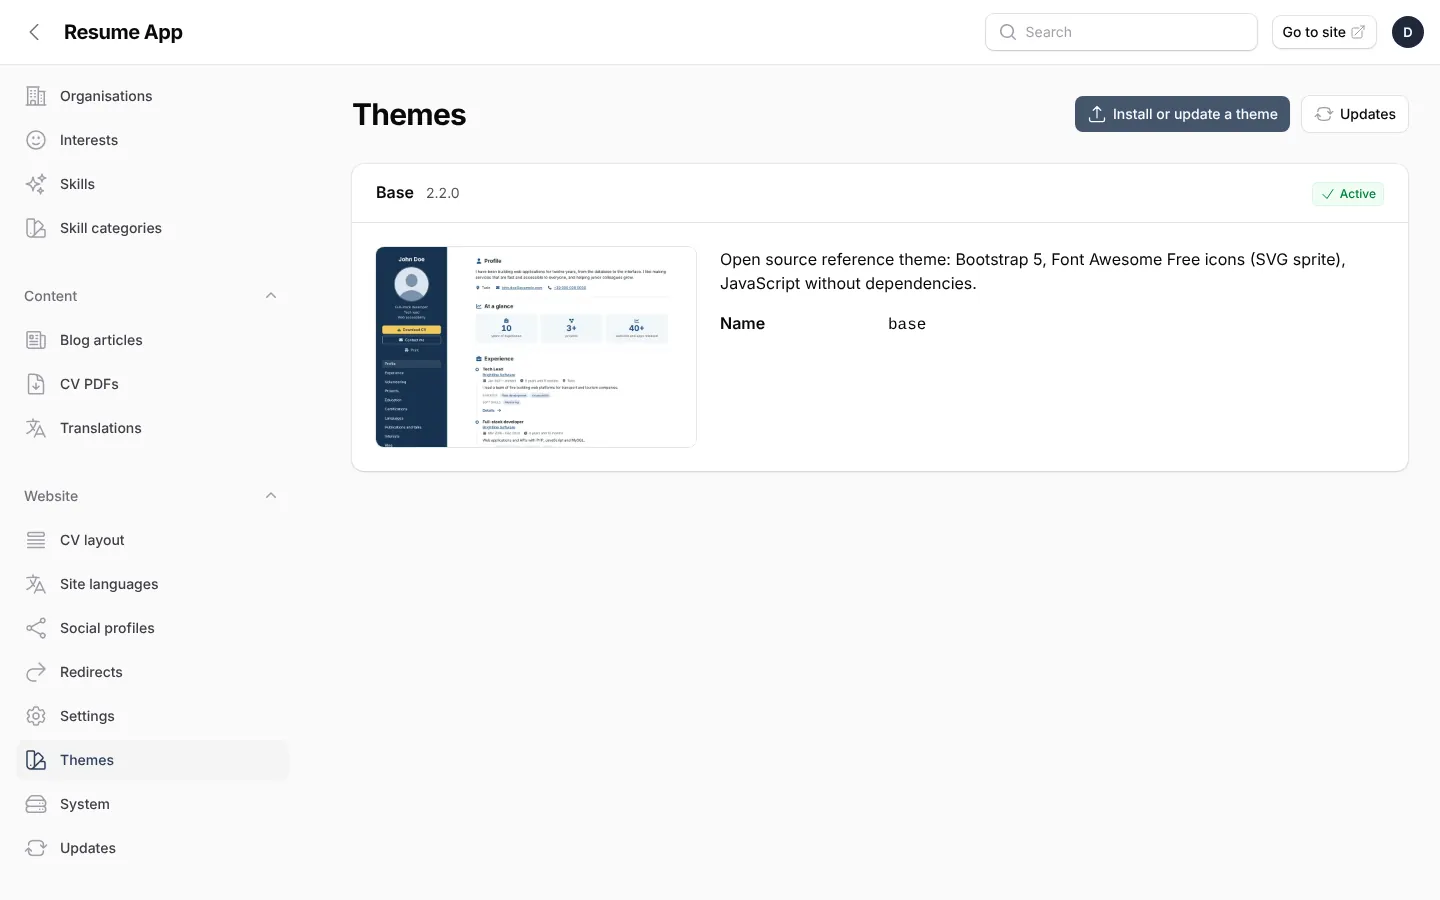
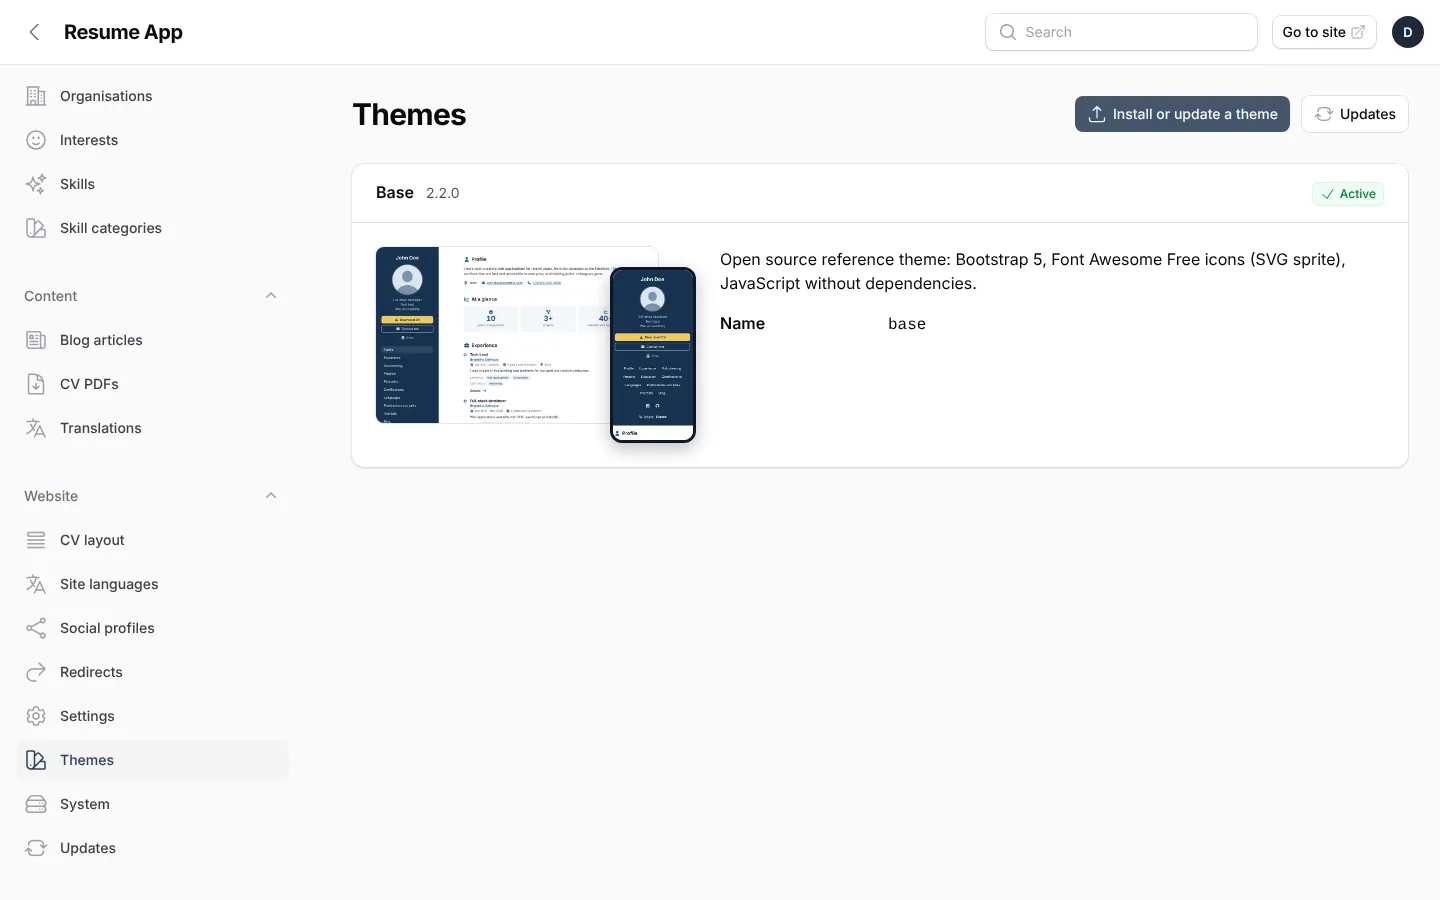
2.4.0: phone preview of the themes, shown over the computer one and enlarged on click
- "preview_mobile" in theme.json (also per variant): preview-mobile.webp and previews/{name}-mobile.webp
  are allowed in the packages and copied by build-theme.sh; ?device=mobile in ThemePreviewController.
- A variant with its own computer image but no phone image shows no phone image (the theme's one would
  have another palette).
- Themes page: the phone over a corner of the computer image; a click opens both at full size in a
  dialog (closed with Esc, a click outside or the button). Phone preview of the base theme.

Claude-Session: https://claude.ai/code/session_01YRHZjULXZyU5fuabgV16pM

Changed region(s): [[0.25, 0.28, 0.5, 0.5289]]

diff --git a/resources/views/filament/pages/themes.blade.php b/resources/views/filament/pages/themes.blade.php
@@ -20,9 +20,32 @@
                     @endif
                 </x-slot>
 
-                <div @class(['resume-themes-body', 'has-preview' => $item['preview']])>
-                @if ($item['preview'])
-                    <img class="resume-themes-preview" src="{{ $item['preview'] }}" alt="{{ __('admin.themes.preview', ['theme' => $theme->title]) }}" loading="lazy" width="640" height="400">
+                <div @class(['resume-themes-body', 'has-preview' => $item['preview'] || $item['previewMobile']])>
+                @if ($item['preview'] || $item['previewMobile'])
+                    {{-- Computer and phone together (the phone over a corner); a click opens both at full size --}}
+                    <div class="resume-themes-shots" x-data>
+                        <button type="button" @class(['resume-themes-shots-button', 'has-mobile' => $item['preview'] && $item['previewMobile']])
+                            x-on:click="$refs.dialog.showModal()" aria-label="{{ __('admin.themes.preview_open', ['theme' => $theme->title]) }}">
+                            @if ($item['preview'])
+                                <img class="resume-themes-preview" src="{{ $item['preview'] }}" alt="{{ __('admin.themes.preview', ['theme' => $theme->title]) }}" loading="lazy" width="640" height="400">
+                            @endif
+                            @if ($item['previewMobile'])
+                                <img class="resume-themes-preview-mobile" src="{{ $item['previewMobile'] }}" alt="{{ __('admin.themes.preview_mobile', ['theme' => $theme->title]) }}" loading="lazy" width="300" height="610">
+                            @endif
+                            <span class="resume-themes-shots-zoom">{{ __('admin.themes.preview_zoom') }}</span>
+                        </button>
+                        <dialog class="resume-themes-dialog" x-ref="dialog" x-on:click.self="$el.close()" aria-label="{{ __('admin.themes.preview', ['theme' => $theme->title]) }}">
+                            <div class="resume-themes-dialog-shots">
+                                @if ($item['preview'])
+                                    <img src="{{ $item['preview'] }}" alt="{{ __('admin.themes.preview', ['theme' => $theme->title]) }}" class="is-desktop" loading="lazy">
+                                @endif
+                                @if ($item['previewMobile'])
+                                    <img src="{{ $item['previewMobile'] }}" alt="{{ __('admin.themes.preview_mobile', ['theme' => $theme->title]) }}" class="is-mobile" loading="lazy">
+                                @endif
+                            </div>
+                            <button type="button" class="resume-themes-dialog-close" x-on:click="$refs.dialog.close()">{{ __('admin.themes.close') }}</button>
+                        </dialog>
+                    </div>
                 @endif
                 <div class="resume-themes-info">
                 @if ($theme->description)
@@ -103,8 +126,27 @@
         .resume-themes { display: grid; gap: 1.5rem; }
         .resume-themes-body.has-preview { display: grid; grid-template-columns: minmax(12rem, 20rem) 1fr; gap: 1.5rem; align-items: start; }
         @media (max-width: 48rem) { .resume-themes-body.has-preview { grid-template-columns: 1fr; } }
-        .resume-themes-preview { width: 100%; height: auto; aspect-ratio: 16 / 10; object-fit: cover; object-position: top; border-radius: .5rem; box-shadow: 0 0 0 1px rgb(3 7 18 / .1); }
+        .resume-themes-shots-button { position: relative; display: block; width: 100%; padding: 0; border: 0; background: none; cursor: zoom-in; text-align: left; }
+        .resume-themes-shots-button.has-mobile { padding: 0 0 1.25rem; }
+        .resume-themes-preview { display: block; width: 100%; height: auto; aspect-ratio: 16 / 10; object-fit: cover; object-position: top; border-radius: .5rem; box-shadow: 0 0 0 1px rgb(3 7 18 / .1); }
+        .resume-themes-preview-mobile { display: block; width: 7rem; height: auto; aspect-ratio: 300 / 610; object-fit: cover; object-position: top; border-radius: .75rem; border: 3px solid rgb(17 24 39); background: #fff; box-shadow: 0 6px 18px rgb(0 0 0 / .25); }
+        .has-mobile .resume-themes-preview { width: 88%; }
+        .has-mobile .resume-themes-preview-mobile { position: absolute; right: 0; bottom: 0; width: 27%; }
         .dark .resume-themes-preview { box-shadow: 0 0 0 1px rgb(255 255 255 / .15); }
+        .dark .resume-themes-preview-mobile { border-color: rgb(255 255 255 / .35); }
+        .resume-themes-shots-zoom { position: absolute; left: .5rem; top: .5rem; padding: .15rem .5rem; border-radius: .375rem; font-size: .75rem; color: #fff; background: rgb(17 24 39 / .75); opacity: 0; transition: opacity .15s; }
+        .resume-themes-shots-button:hover .resume-themes-shots-zoom, .resume-themes-shots-button:focus-visible .resume-themes-shots-zoom { opacity: 1; }
+        .resume-themes-shots-button:focus-visible { outline: 2px solid var(--primary-500, rgb(100 116 139)); outline-offset: 4px; border-radius: .5rem; }
+        .resume-themes-dialog { position: fixed; inset: 0; margin: auto; width: fit-content; height: fit-content; max-width: min(96vw, 84rem); max-height: 94vh; overflow: auto; padding: 1.25rem; border: 0; border-radius: .75rem; background: #fff; color: inherit; box-shadow: 0 20px 50px rgb(0 0 0 / .35); }
+        .dark .resume-themes-dialog { background: rgb(24 24 27); }
+        .resume-themes-dialog::backdrop { background: rgb(0 0 0 / .6); }
+        .resume-themes-dialog-shots { display: flex; gap: 1.25rem; align-items: flex-start; justify-content: center; }
+        .resume-themes-dialog-shots img { height: auto; max-height: calc(94vh - 6rem); border-radius: .5rem; box-shadow: 0 0 0 1px rgb(3 7 18 / .1); object-fit: contain; }
+        .resume-themes-dialog-shots .is-desktop { width: min(60rem, 70vw); }
+        .resume-themes-dialog-shots .is-mobile { width: min(20rem, 22vw); border-radius: 1rem; border: 4px solid rgb(17 24 39); }
+        @media (max-width: 48rem) { .resume-themes-dialog-shots { flex-direction: column; align-items: center; } .resume-themes-dialog-shots .is-desktop { width: 100%; } .resume-themes-dialog-shots .is-mobile { width: 60%; } }
+        .resume-themes-dialog-close { display: block; margin: 1rem auto 0; padding: .4rem 1rem; border-radius: .5rem; font-size: .875rem; font-weight: 600; box-shadow: 0 0 0 1px rgb(3 7 18 / .15); }
+        .dark .resume-themes-dialog-close { box-shadow: 0 0 0 1px rgb(255 255 255 / .2); }
         .resume-themes-info > :first-child { margin-top: 0; }
         .resume-themes-version { margin-left: .5rem; font-weight: 400; font-size: .875rem; opacity: .7; }
         .resume-system-list { display: grid; grid-template-columns: minmax(9rem, max-content) 1fr; gap: .5rem 1.5rem; margin: 1rem 0 0; }

diff --git a/app/Themes/Theme.php b/app/Themes/Theme.php
@@ -22,6 +22,7 @@ final readonly class Theme
      * @param  string|null  $updateRepository  GitHub repository of the releases ("owner/name"), for updates
      * @param  string  $updateTagPrefix  prefix of the release tags of this theme ("v", "folio-v")
      * @param  string|null  $preview  preview image for the Themes page, relative to the theme folder ("preview.webp")
+     * @param  string|null  $previewMobile  the same on a phone ("preview-mobile.webp")
      * @param  list<string>  $signingKeys  Ed25519 public keys of the theme's packages (updates are checked with them)
      */
     public function __construct(
@@ -43,10 +44,14 @@ final readonly class Theme
         public ?string $author = null,
         public ?string $preview = null,
         public array $signingKeys = [],
+        public ?string $previewMobile = null,
     ) {}
 
-    /** Preview images: preview.webp (or .png, .jpg) and previews/{name}.webp for the variants */
-    public const string PREVIEW_PATTERN = '#^(preview|previews/[a-z0-9_-]+)\.(webp|png|jpe?g)$#';
+    /**
+     * Preview images: preview.webp and preview-mobile.webp (or .png, .jpg), previews/{name}.webp and
+     * previews/{name}-mobile.webp for the variants
+     */
+    public const string PREVIEW_PATTERN = '#^(preview|preview-mobile|previews/[a-z0-9_-]+)\.(webp|png|jpe?g)$#';
 
     public static function previewPath(?string $value): ?string
     {
@@ -54,12 +59,20 @@ final readonly class Theme
     }
 
     /**
-     * Absolute path of the preview image of the theme or of one of its variants (the theme's one if the variant has
-     * none), only if the file is there.
+     * Absolute path of the preview image of the theme or of one of its variants, on a computer or on a phone, only if
+     * the file is there. A variant without its own images uses the theme's ones; a variant with its own computer image
+     * but no phone image has no phone image (the theme's one would show another palette).
      */
-    public function previewFile(?string $variant = null): ?string
+    public function previewFile(?string $variant = null, bool $mobile = false): ?string
     {
-        $relative = ($variant !== null ? ($this->variants[$variant]->preview ?? null) : null) ?? $this->preview;
+        $own = $variant !== null ? ($this->variants[$variant] ?? null) : null;
+
+        $relative = match (true) {
+            ! $mobile => $own->preview ?? $this->preview,
+            $own?->previewMobile !== null => $own->previewMobile,
+            $own?->preview !== null => null,
+            default => $this->previewMobile,
+        };
         $file = $relative !== null ? $this->path.DIRECTORY_SEPARATOR.$relative : null;
 
         return $file !== null && is_file($file) ? $file : null;
@@ -137,6 +150,7 @@ final readonly class Theme
             updateTagPrefix: $tagPrefix,
             author: $string('author'),
             preview: self::previewPath($string('preview')),
+            previewMobile: self::previewPath($string('preview_mobile')),
             signingKeys: Signature::keys($data['signing_keys'] ?? null),
         );
     }
@@ -172,6 +186,7 @@ final readonly class Theme
             author: $this->author,
             preview: $this->preview,
             signingKeys: $this->signingKeys,
+            previewMobile: $this->previewMobile,
         );
     }
 

diff --git a/tests/Feature/Admin/ThemesTest.php b/tests/Feature/Admin/ThemesTest.php
@@ -628,9 +628,13 @@ it('installs themes and recognises app packages uploaded on the Updates page', f
 it('shows the preview of a theme and of its variants only to administrators', function () {
     [$manifest, $files] = variantTheme();
     $manifest['preview'] = 'preview.webp';
+    $manifest['preview_mobile'] = 'preview-mobile.webp';
     $manifest['variants']['dark']['preview'] = 'previews/dark.webp';
+    $manifest['variants']['dark']['preview_mobile'] = 'previews/dark-mobile.webp';
     $manifest['variants']['light']['preview'] = '../../.env';
-    app(ThemeInstaller::class)->install(themeZip($manifest, [...$files, 'preview.webp' => 'RIFFmainWEBP', 'previews/dark.webp' => 'RIFFdarkWEBP']));
+    $manifest['variants']['sepia'] = ['title' => 'Sepia', 'entrypoints' => [], 'preview' => 'previews/sepia.webp'];
+    app(ThemeInstaller::class)->install(themeZip($manifest, [...$files, 'preview.webp' => 'RIFFmainWEBP', 'preview-mobile.webp' => 'RIFFmainMOBILE',
+        'previews/dark.webp' => 'RIFFdarkWEBP', 'previews/dark-mobile.webp' => 'RIFFdarkMOBILE', 'previews/sepia.webp' => 'RIFFsepiaWEBP']));
     Filament::setCurrentPanel('admin');
 
     $url = fn (?string $variant = null): string => route('filament.admin.theme-preview', array_filter(['theme' => 'demo-pro', 'variant' => $variant]));
@@ -643,13 +647,23 @@ it('shows the preview of a theme and of its variants only to administrators', fu
     expect(file_get_contents($main->baseResponse->getFile()->getPathname()))->toBe('RIFFmainWEBP');
     expect(file_get_contents($this->get($url('dark'))->assertOk()->baseResponse->getFile()->getPathname()))->toBe('RIFFdarkWEBP');
 
+    // Phone previews: the theme's one, the dark variant has its own, a variant with its own computer image but no
+    // phone image has none
+    $mobile = fn (?string $variant = null) => $this->get($url($variant).'?device=mobile');
+    expect(file_get_contents($mobile()->assertOk()->baseResponse->getFile()->getPathname()))->toBe('RIFFmainMOBILE')
+        ->and(file_get_contents($mobile('dark')->assertOk()->baseResponse->getFile()->getPathname()))->toBe('RIFFdarkMOBILE');
+
     // A variant with an invalid path uses the theme's preview; unknown themes and base without preview: 404
     expect(file_get_contents($this->get($url('light'))->assertOk()->baseResponse->getFile()->getPathname()))->toBe('RIFFmainWEBP');
     $this->get(route('filament.admin.theme-preview', ['theme' => 'missing']))->assertNotFound();
 
+    $mobile('sepia')->assertNotFound();
+
     $this->get('/admin/themes')->assertOk()
         ->assertSee('src="'.$url().'?v=1.0.0"', escape: false)
-        ->assertSee('Anteprima del tema Demo-pro');
+        ->assertSee('src="'.$url().'?device=mobile&amp;v=1.0.0"', escape: false)
+        ->assertSee('Anteprima del tema Demo-pro')
+        ->assertSee('Anteprima su telefono del tema Demo-pro');
 });
 
 it('refuses theme packages with other files next to the preview images', function () {

diff --git a/app/Filament/Pages/ManageThemes.php b/app/Filament/Pages/ManageThemes.php
@@ -72,6 +72,7 @@ class ManageThemes extends Page
                     'base' => $theme->name === $themes->base()->name,
                     'source' => $sources->get($theme->name),
                     'preview' => self::previewUrl($theme, $theme->name === $active ? $themes->active()->variant : $theme->defaultVariant),
+                    'previewMobile' => self::previewUrl($theme, $theme->name === $active ? $themes->active()->variant : $theme->defaultVariant, mobile: true),
                 ])
                 ->values()
                 ->all(),
@@ -79,17 +80,19 @@ class ManageThemes extends Page
     }
 
     /**
-     * Address of the preview image of a theme (of the variant in use, or of the default one), or null.
+     * Address of the preview image of a theme (of the variant in use, or of the default one), on a computer or on a
+     * phone, or null.
      */
-    private static function previewUrl(Theme $theme, ?string $variant): ?string
+    private static function previewUrl(Theme $theme, ?string $variant, bool $mobile = false): ?string
     {
-        if ($theme->previewFile($variant) === null) {
+        if ($theme->previewFile($variant, $mobile) === null) {
             return null;
         }
 
-        $parameters = ['theme' => $theme->name, 'variant' => $variant !== null && ($theme->variants[$variant]->preview ?? null) !== null ? $variant : null];
+        $own = $variant !== null ? ($theme->variants[$variant] ?? null) : null;
+        $parameters = ['theme' => $theme->name, 'variant' => $own?->preview !== null || $own?->previewMobile !== null ? $variant : null];
 
-        return route('filament.admin.theme-preview', array_filter($parameters)).'?v='.rawurlencode($theme->version);
+        return route('filament.admin.theme-preview', array_filter($parameters)).'?'.http_build_query(array_filter(['device' => $mobile ? 'mobile' : null, 'v' => $theme->version]));
     }
 
     protected function getHeaderActions(): array

diff --git a/app/Http/Controllers/Admin/ThemePreviewController.php b/app/Http/Controllers/Admin/ThemePreviewController.php
@@ -6,10 +6,11 @@ namespace App\Http\Controllers\Admin;
 
 use App\Http\Controllers\Controller;
 use App\Themes\ThemeManager;
+use Illuminate\Http\Request;
 use Symfony\Component\HttpFoundation\BinaryFileResponse;
 
 /**
- * Preview image of an installed theme (or of one of its variants) for the Themes page. The images stay in the theme
+ * Preview image of an installed theme (or of one of its variants; ?device=mobile for the phone one) for the Themes page. The images stay in the theme
  * folder (core/themes, not reachable from the browser) and are served only to administrators, only if theme.json
  * declares them with an image name (Theme::PREVIEW_PATTERN).
  */
@@ -17,11 +18,11 @@ class ThemePreviewController extends Controller
 {
     private const array TYPES = ['webp' => 'image/webp', 'png' => 'image/png', 'jpg' => 'image/jpeg', 'jpeg' => 'image/jpeg'];
 
-    public function __invoke(ThemeManager $themes, string $theme, ?string $variant = null): BinaryFileResponse
+    public function __invoke(Request $request, ThemeManager $themes, string $theme, ?string $variant = null): BinaryFileResponse
     {
         abort_unless(preg_match('/^[a-z0-9][a-z0-9-]*$/', $theme) === 1 && $themes->isInstalled($theme), 404);
 
-        $file = $themes->get($theme)->previewFile($variant);
+        $file = $themes->get($theme)->previewFile($variant, $request->query('device') === 'mobile');
         $root = realpath($themes->path($theme));
         $real = $file !== null ? realpath($file) : false;
         $type = self::TYPES[strtolower(pathinfo((string) $file, PATHINFO_EXTENSION))] ?? null;

diff --git a/app/Themes/ThemeVariant.php b/app/Themes/ThemeVariant.php
@@ -9,7 +9,7 @@ namespace App\Themes;
  *
  *   "variants": {
  *       "lux": { "title": "Lux", "entrypoints": ["themes/folio/resources/scss/lux.scss"], "theme_color": "#1a1a1a",
- *                "preview": "previews/lux.webp" }
+ *                "preview": "previews/lux.webp", "preview_mobile": "previews/lux-mobile.webp" }
  *   }
  *
  * Its entry points are added to those of the theme; the administrator picks the variant on the Themes page.
@@ -26,6 +26,7 @@ final readonly class ThemeVariant
         public ?string $themeColor = null,
         public ?string $description = null,
         public ?string $preview = null,
+        public ?string $previewMobile = null,
     ) {}
 
     /**
@@ -42,6 +43,7 @@ final readonly class ThemeVariant
             themeColor: Theme::color($string('theme_color')),
             description: $string('description'),
             preview: Theme::previewPath($string('preview')),
+            previewMobile: Theme::previewPath($string('preview_mobile')),
         );
     }
 }

diff --git a/app/Themes/ThemeInstaller.php b/app/Themes/ThemeInstaller.php
@@ -32,7 +32,7 @@ class ThemeInstaller
     private const string THEME_FILES = '#^(theme\.json|icons\.php|README\.md|LICENSE(\.txt|\.md)?'
         .'|views/([a-z0-9_-]+/)*[a-z0-9_.-]+\.blade\.php'
         .'|lang/[A-Za-z0-9_-]+/[a-z0-9_-]+\.php|lang/[A-Za-z0-9_-]+\.json'
-        .'|preview\.(webp|png|jpe?g)|previews/[a-z0-9_-]+\.(webp|png|jpe?g))$#';
+        .'|preview(-mobile)?\.(webp|png|jpe?g)|previews/[a-z0-9_-]+\.(webp|png|jpe?g))$#';
 
     /** Allowed public assets */
     private const string DIST_FILES = '#^dist/([A-Za-z0-9_.@-]+/)*[A-Za-z0-9_.@-]+\.(css|js|mjs|map|json|svg|woff2?|ttf|otf|png|jpe?g|webp|avif|gif|ico|txt)$#';

diff --git a/lang/it/admin.php b/lang/it/admin.php
@@ -291,6 +291,9 @@ return [
         'installed_many' => ':count temi installati o aggiornati',
         'variants' => 'Varianti',
         'preview' => 'Anteprima del tema :theme',
+        'preview_mobile' => 'Anteprima su telefono del tema :theme',
+        'preview_open' => 'Ingrandisci le anteprime del tema :theme',
+        'preview_zoom' => 'Ingrandisci',
         'updates' => [
             'install' => 'Aggiorna alla :version',
             'notes' => 'Novità',

diff --git a/lang/en/admin.php b/lang/en/admin.php
@@ -291,6 +291,9 @@ return [
         'installed_many' => ':count themes installed or updated',
         'variants' => 'Variants',
         'preview' => 'Preview of the theme :theme',
+        'preview_mobile' => 'Phone preview of the theme :theme',
+        'preview_open' => 'Enlarge the previews of the theme :theme',
+        'preview_zoom' => 'Enlarge',
         'updates' => [
             'install' => 'Update to :version',
             'notes' => 'What is new',

diff --git a/docs/THEMES.md b/docs/THEMES.md
@@ -22,7 +22,8 @@ fancy/
 ├── views/              # only the views that change (the others come from base)
 ├── lang/               # optional strings of the theme: __('theme::file.key')
 ├── preview.webp        # optional image of the theme for the Themes page (also .png or .jpg)
-├── previews/           # optional images of the variants (previews/dark.webp)
+├── preview-mobile.webp # optional image of the theme on a phone
+├── previews/           # optional images of the variants (previews/dark.webp, previews/dark-mobile.webp)
 ├── resources/          # sources: SCSS, JS, fonts, icon sources (not in the package)
 └── README.md, LICENSE  # copied into the package
 ```
@@ -48,9 +49,10 @@ printed only through the helpers of `base` (see the views of `base` as reference
     "variants": {
         "light": { "title": "Light", "entrypoints": ["themes/fancy/resources/scss/light.scss"], "theme_color": "#2c3e50" },
         "dark": { "title": "Dark", "entrypoints": ["themes/fancy/resources/scss/dark.scss"], "theme_color": "#121212",
-                  "preview": "previews/dark.webp" }
+                  "preview": "previews/dark.webp", "preview_mobile": "previews/dark-mobile.webp" }
     },
     "preview": "preview.webp",
+    "preview_mobile": "preview-mobile.webp",
     "updates": { "repository": "owner/fancy-themes", "tag_prefix": "fancy-v" },
     "signing_keys": ["base64 of the 32 bytes of the public key="],
     "author": "Your name",
@@ -68,7 +70,7 @@ printed only through the helpers of `base` (see the views of `base` as reference
 | `sprite` | Vite key of the SVG icon sprite built from `icons.php`. |
 | `theme_color` | Color of the browser bar on phones (`meta theme-color`). |
 | `variants`, `default_variant` | See [Variants](#variants). |
-| `preview` | Image shown on the *Themes* page: `preview.webp` (or `.png`, `.jpg`) in the theme folder, 16:10, about 960 x 600 px. A variant can have its own (`previews/{name}.webp`): the page shows the one of the variant in use. The images stay in `core/themes` and are served only to administrators. |
+| `preview`, `preview_mobile` | Images shown on the *Themes* page: the site on a computer (`preview.webp`, or `.png`, `.jpg`, 16:10, about 960 x 600 px) and on a phone (`preview-mobile.webp`, the first screen, about 300 x 610 px). The phone appears over a corner of the computer image; a click opens both at full size. A variant can have its own (`previews/{name}.webp`, `previews/{name}-mobile.webp`): the page shows those of the variant in use. A variant with its own computer image but no phone image shows no phone image (the theme's one would have another palette). The images stay in `core/themes` and are served only to administrators. |
 | `updates` | See [Updates from GitHub](#updates-from-github). |
 | `signing_keys` | Ed25519 public keys (base64) of the packages of the theme. See [Signed packages](#signed-packages). |
 

diff --git a/CHANGELOG.md b/CHANGELOG.md
@@ -23,8 +23,9 @@ and the packages are checked with an Ed25519 signature.
   still be installed by an administrator, with a note that its signature was not checked, and automatic updates
   install only signed packages. Themes can declare their keys in `theme.json` (`signing_keys`): their updates are
   then checked with the keys of the installed version.
-- **Preview image of the themes** on the *Themes* page (`preview` in `theme.json`, also per variant), served only to
-  administrators from the theme folder. The base theme has one.
+- **Preview of the themes** on the *Themes* page, on a computer and on a phone (`preview` and `preview_mobile` in
+  `theme.json`, also per variant): the phone over a corner of the computer image, a click opens both at full size.
+  Served only to administrators from the theme folder. The base theme has both.
 - **"To translate into..."** filter in the lists of the admin that show the missing translations.
 - Release workflow: inspection of the package content (no data, secrets, development files, other themes, symbolic
   links or executable files; `manifest.json` matches the files) and of the extracted files with the privacy guard;
